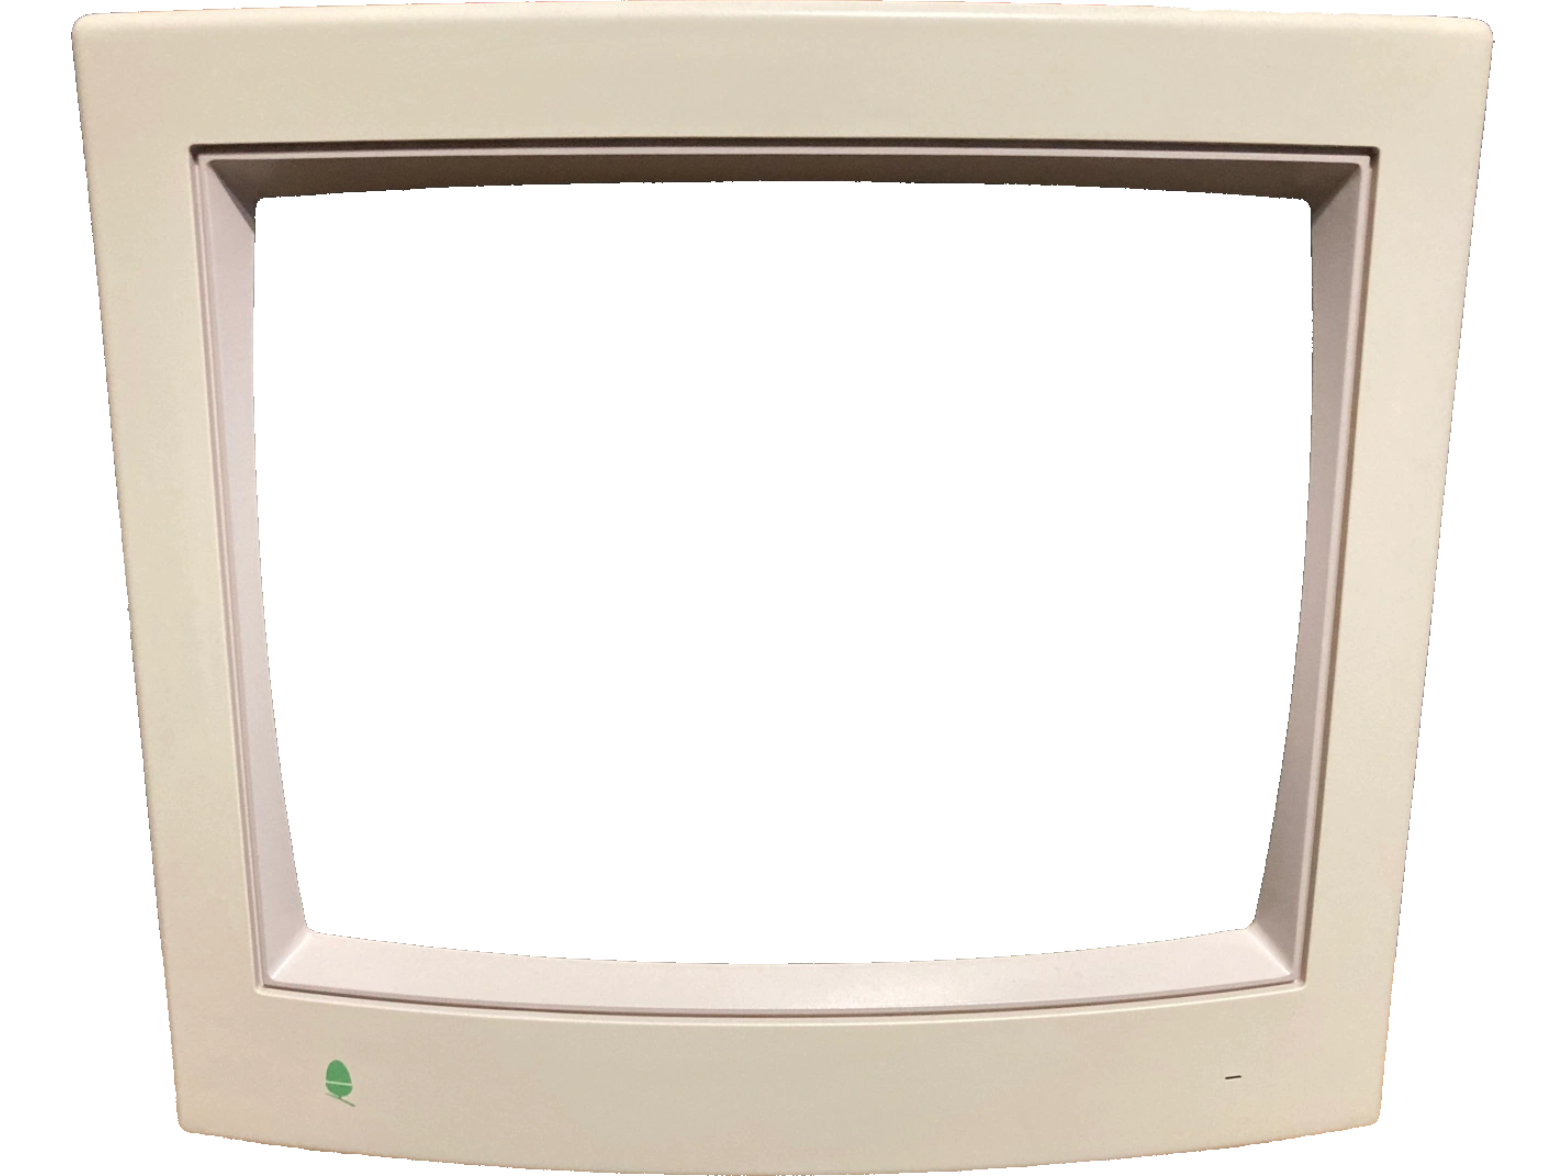
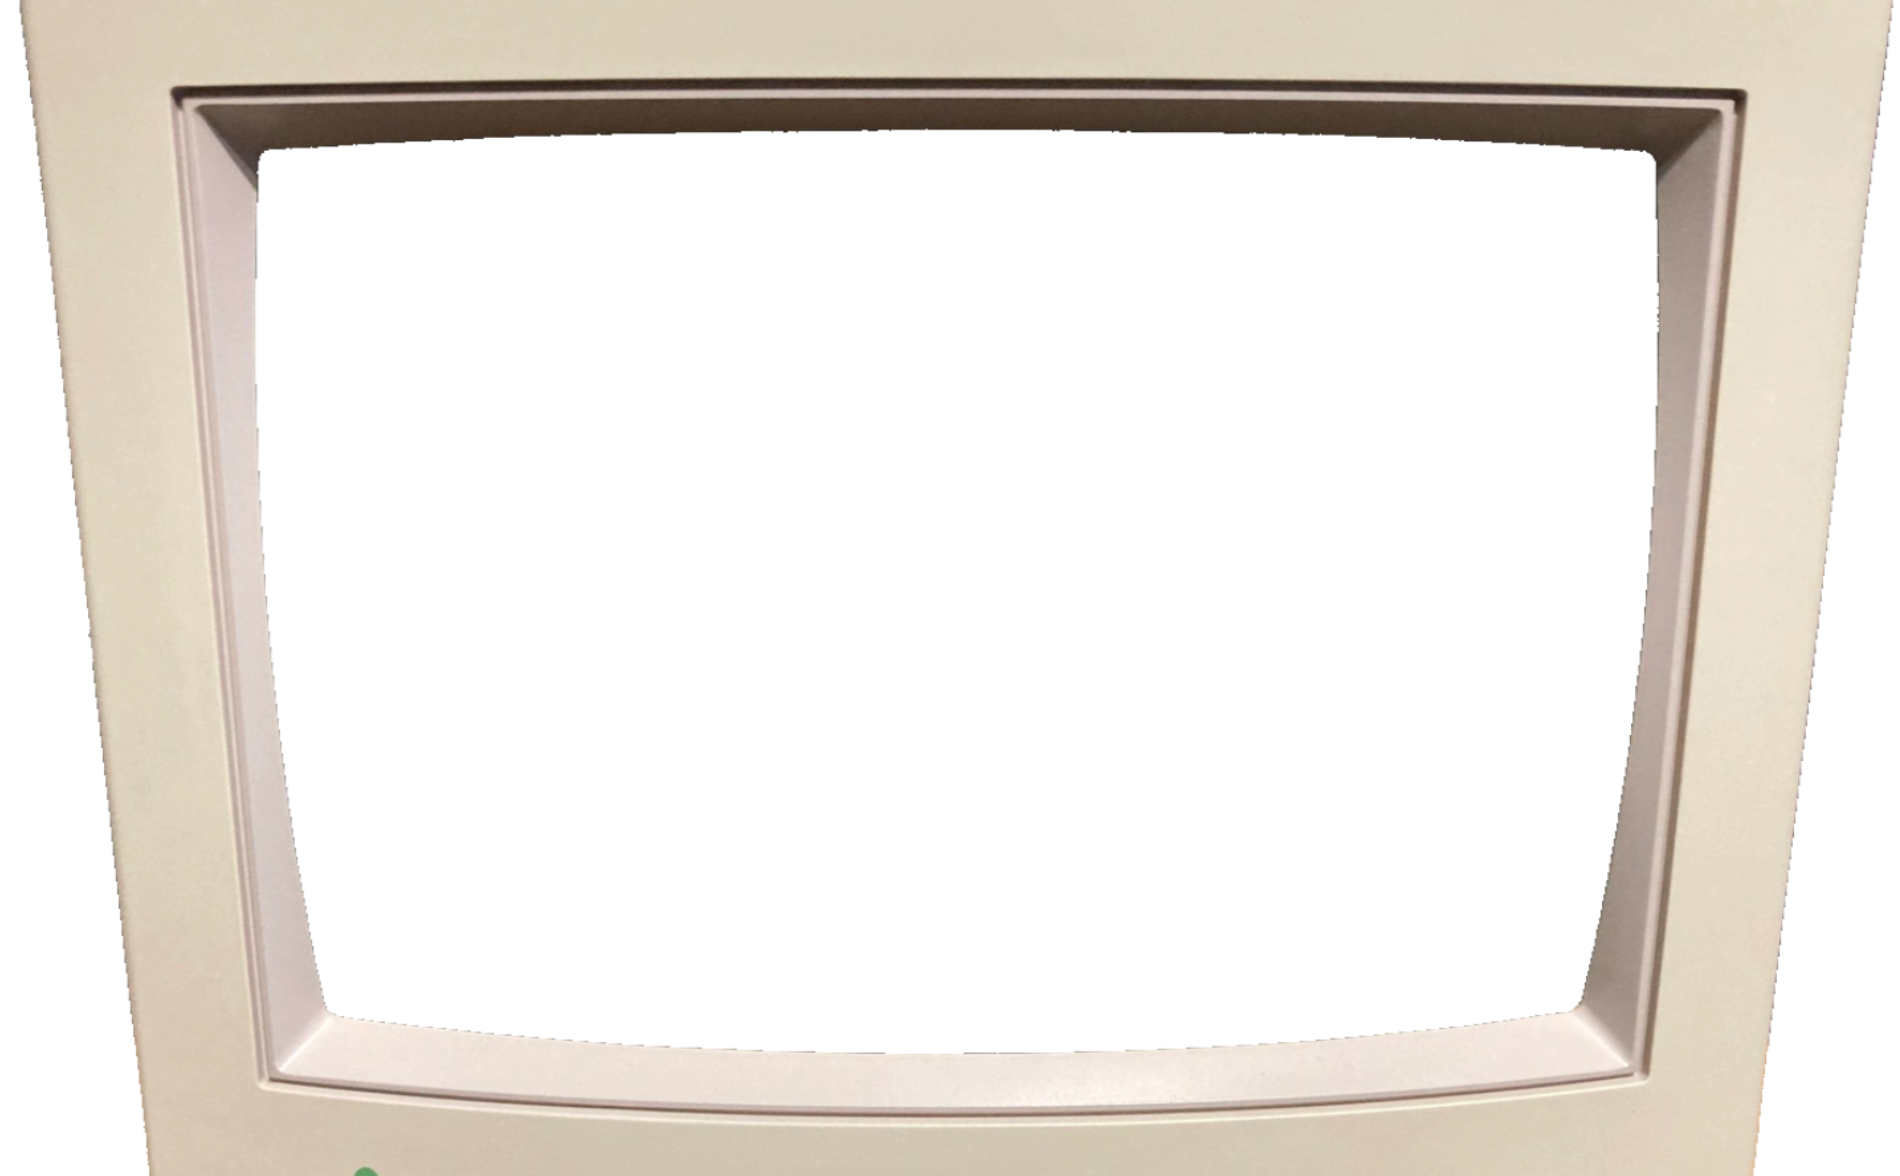
- finish evidence for images - update chat messages to make smaller screen resolutions display better - removed alien from main screen

diff --git a/lang-game-ts/src/components/UI/ViewEvidence.tsx b/lang-game-ts/src/components/UI/ViewEvidence.tsx
@@ -1,0 +1,115 @@
+import { useGameStore } from "../../store/useGameStore"
+import CancelButton from "../../assets/images/ui/icons/cancel-icon.png"
+import { useEffect, useState } from "react"
+import type { Evidence } from "../../types/index"
+
+const ViewEvidence = () => {
+    const evidenceState = useGameStore((s) => s.evidenceState)
+    const evidenceList = useGameStore((s) => s.evidenceList)
+    const updateEvidence = useGameStore((s) => s.updateEvidence)
+    const deselectEvidence = useGameStore((s) => s.deselectEvidence)
+    const selectedEvidence = evidenceList.find((x) => x.id === evidenceState?.evidenceId)
+
+    const [evidence, setEvidence] = useState<Evidence>()
+
+    useEffect(() => {
+        if (selectedEvidence?.id !== 0) {
+            setEvidence(selectedEvidence)
+        }
+    }, [selectedEvidence])
+
+    const handleBlur = () => {
+        if (evidence) {
+            updateEvidence(evidence.id, evidence.name ?? null, evidence.notes ?? null)
+
+        }
+    }
+
+    return (
+        <div
+            style={{ width: "100%", height: "100%", display: "flex", flexDirection: "column", justifyContent: "space-between" }}
+
+        >
+            <div style={{ height: "5%", display: "flex", alignItems: "center", justifyContent: "space-between" }}>
+                <input
+                    value={evidence && evidence.name}
+                    onChange={(e) =>
+                        setEvidence((prev) =>
+                            prev
+                                ? {
+                                    ...prev,
+                                    name: e.target.value,
+                                }
+                                : prev
+                        )
+                    }
+                    onBlur={handleBlur}
+                    style={{
+                        backgroundColor: "transparent",
+                        border: "1px solid #00FF00",
+                        minWidth: "50%",
+                        height: "100%",
+                        color: "#00FF00",
+                        caretColor: "#00FF00",
+                        padding: 5
+                    }}
+                />
+                <img src={CancelButton} style={{ width: 20, height: 20, cursor: "pointer" }} onClick={deselectEvidence} />
+            </div>
+            {selectedEvidence?.image ? (
+                <div
+                    style={{
+                        height: "70%",
+                        display: "flex",
+                        justifyContent: "center",
+                        alignItems: "flex-start",
+                        overflowY: "auto",
+                    }}
+                    className="missionPanelImage"
+                >
+                    <img
+                        src={selectedEvidence.image}
+                        style={{
+                            width: "100%",
+                            objectFit: "cover",
+                        }}
+                    />
+                </div>
+
+            ) : (
+                <div>text</div>
+            )}
+            <div style={{ height: "20%", display: "flex", flexDirection: "column", justifyContent: "space-between" }}>
+                Notes
+                <textarea
+                    value={evidence && evidence.notes}
+                    onChange={(e) =>
+                        setEvidence((prev) =>
+                            prev
+                                ? {
+                                    ...prev,
+                                    notes: e.target.value,
+                                }
+                                : prev
+                        )
+                    }
+                    onBlur={handleBlur}
+                    style={{
+                        backgroundColor: "transparent",
+                        border: "1px solid #00FF00",
+                        width: "100%",
+                        height: "80%",
+                        color: "#00FF00",
+                        caretColor: "#00FF00",
+                        padding: 5,
+                        resize: "none"
+                    }}
+                />
+            </div>
+        </div>
+    );
+
+
+}
+
+export default ViewEvidence

diff --git a/lang-game-ts/src/components/UI/GameScreen.tsx b/lang-game-ts/src/components/UI/GameScreen.tsx
@@ -3,9 +3,9 @@ import EvidenceContainer from "./EvidenceContainer";
 
 export const GameScreen = () => {
     return (
-        <div style={{ display: "flex", border: "1px solid #00FF00", width: "70%", height: "100%" }}>
+        <div style={{ display: "flex", border: "1px solid #00FF00", width: "60%", height: "100%" }}>
             <div style={{
-                width: "60%",
+                width: "100%",
                 height: "100%",
                 display: "flex",
                 justifyContent: "center",
@@ -13,15 +13,15 @@ export const GameScreen = () => {
             }}>
                 <EvidenceContainer />
             </div>
-            <div style={{
-                width: "40%",
-                background: `url(${alienImage})`,
-                backgroundSize: "cover",
-                backgroundPosition: "center"
-            }}
-                className="missionPanelImage"
-            >
-            </div>
+            {/*<div style={{*/}
+            {/*    width: "40%",*/}
+            {/*    background: `url(${alienImage})`,*/}
+            {/*    backgroundSize: "cover",*/}
+            {/*    backgroundPosition: "center"*/}
+            {/*}}*/}
+            {/*    className="missionPanelImage"*/}
+            {/*>*/}
+            {/*</div>*/}
         </div>
     );
 };

diff --git a/lang-game-ts/src/components/UI/EvidenceCard.tsx b/lang-game-ts/src/components/UI/EvidenceCard.tsx
@@ -33,7 +33,7 @@ const EvidenceCard = ({ id, name, isViewed }: EvidenceCardProps) => {
     return (
         <div style={{
             border: "1px solid #00FF00",
-            width: "45%",
+            width: "32%",
             height: "49%",
             fontSize: 15
 
@@ -58,7 +58,7 @@ const EvidenceCard = ({ id, name, isViewed }: EvidenceCardProps) => {
                         width: "100%",
                         display: "flex",
                         flexDirection: "column",
-                        backgroundColor: "green",
+                        backgroundColor: "rgba(0, 255, 0, 0.2)",
                         paddingTop: "10%",
                         boxSizing: "border-box",
                     }}
@@ -141,7 +141,8 @@ const EvidenceCard = ({ id, name, isViewed }: EvidenceCardProps) => {
                                 height: "80%",
                                 color: "#00FF00",
                                 caretColor: "#00FF00",
-                                padding: 5
+                                padding: 5,
+                                resize: "none"
                             }}
                         />
                     </div>

diff --git a/lang-game-ts/src/components/UI/EvidenceContainer.tsx b/lang-game-ts/src/components/UI/EvidenceContainer.tsx
@@ -1,25 +1,26 @@
 import { useGameStore } from "../../store/useGameStore";
 import EvidenceCard from "./EvidenceCard";
+import ViewEvidence from "./ViewEvidence";
 
 const EvidenceContainer = () => {
     const evidenceList = useGameStore((s) => s.evidenceList)
     const evidenceState = useGameStore((s) => s.evidenceState)
-
-    console.log(evidenceState)
 
     return (
         <div style={{
             display: "flex",
             flexWrap: "wrap",
             gap: "5px",
-            width: "98%",
+            width: "100%",
             height: "95%",
             overflow: "auto",
-            paddingLeft: "1.5%"
+            paddingLeft: "1.5%",
+            paddingRight: "1.5%",
+            justifyContent: "flex-start"
         }}>
 
             {evidenceState?.evidenceId !== 0 ?
-                null :
+                <ViewEvidence /> :
                 evidenceList && evidenceList.filter((e) => e.isFound).length > 0 ?
                     evidenceList.filter((e) => e.isFound).map((ev) => {
                         return (

diff --git a/lang-game-ts/src/components/UI/InputBox.tsx b/lang-game-ts/src/components/UI/InputBox.tsx
@@ -10,7 +10,7 @@ interface InputBoxProps {
 const InputBox = ({ wordStateComp, setWordStateComp, handleBlur, shouldFocus }: InputBoxProps) => {
     const spanRef = useRef(null);
     const inputRef = useRef(null);
-    const [inputWidth, setInputWidth] = useState(20); // minimum width in px
+    const [inputWidth, setInputWidth] = useState(20);
 
 
     useEffect(() => {
@@ -22,7 +22,7 @@ const InputBox = ({ wordStateComp, setWordStateComp, handleBlur, shouldFocus }: 
     useEffect(() => {
         if (spanRef.current) {
             const spanWidth = spanRef.current.offsetWidth;
-            setInputWidth(Math.max(20, spanWidth + 5)); // +5 for some padding
+            setInputWidth(Math.max(20, spanWidth + 5)); 
         }
     }, [wordStateComp.translation]);
 
@@ -53,7 +53,6 @@ const InputBox = ({ wordStateComp, setWordStateComp, handleBlur, shouldFocus }: 
                 }}
 
             />
-            {/* Hidden span to calculate width */}
             <span
                 ref={spanRef}
                 style={{

diff --git a/lang-game-ts/src/components/UI/ChatMessage.tsx b/lang-game-ts/src/components/UI/ChatMessage.tsx
@@ -64,8 +64,8 @@ const ChatMessage = ({ type, npcId, npcMood, text, id }: Message) => {
         )
     } else {
         return (
-            <div style={{ display: "flex", minHeight: "10%", justifyContent: "center", alignItems: "center" }}>
-                <div style={{ border: "1px solid #00FF00", width: "80%", height: "100%", justifyContent: "center", alignItems: "flex-start", display: "flex", flexDirection: "column", paddingLeft: 5, paddingRight: 5 }}>
+            <div style={{ display: "flex", justifyContent: "center", alignItems: "center" }}>
+                <div style={{ border: "1px solid #00FF00", width: "80%", height: "100%", justifyContent: "center", alignItems: "flex-start", display: "flex", flexDirection: "column", padding: 5 }}>
                     <span>{text && text.split(":")[0]}:</span>
                     <span>{text && text.split(":")[1]}</span>
                 </div>

diff --git a/lang-game-ts/src/App.tsx b/lang-game-ts/src/App.tsx
@@ -43,7 +43,7 @@ function App() {
                     alt="Monitor UI"
                     style={{
                         width: "100%",
-                        height: "120%",
+                        height: "115%",
                         pointerEvents: "none",
                         zIndex: 2
                     }}
@@ -53,10 +53,10 @@ function App() {
                 <div
                     style={{
                         position: 'absolute',
-                        top: '8%',
-                        left: '16%',
-                        width: '68%',
-                        height: '90%',
+                        top: '5%',
+                        left: '13%',
+                        width: '74.5%',
+                        height: '96%',
                         zIndex: 1,
                         paddingLeft: "2%",
                         paddingRight: "2%",

diff --git a/lang-game-ts/src/store/useGameStore.ts b/lang-game-ts/src/store/useGameStore.ts
@@ -38,6 +38,7 @@ interface GameState {
     updateWordDefinition: (definition: string, wordId: number) => void;
     selectEvidence: (evidenceId: number) => void;
     updateEvidence: (evidenceId: number, name: null | string, notes: null | string) => void;
+    deselectEvidence: () => void;
 }
 
 const updateWordListWithFoundWords = (wordList: Word[], text: number[]): Word[] => {
@@ -337,6 +338,15 @@ export const useGameStore = create<GameState>((set, get) => ({
 
         set(() => ({
             evidenceList: evidenceList
+        }));
+    },
+
+    deselectEvidence: () => {
+        set(() => ({
+            evidenceState: {
+                evidenceId: 0,
+                puzzleId: 0
+            },
         }));
     }
 

diff --git a/lang-game-ts/src/data/evidence/evidenceOptions.ts b/lang-game-ts/src/data/evidence/evidenceOptions.ts
@@ -1,16 +1,19 @@
 import type { Evidence } from "../../types/index"
+import Evidence1Image from "../../assets/images/alien/alien.png"
+
 
 export const evidenceOptions: Evidence[] = [
     {
         id: 1,
         meaning: "Home",
         text: [5],
-        puzzle: 1
+        image: Evidence1Image
     },
     {
         id: 2,
         meaning: "Go",
         text: [1],
+        puzzle: 1
     },
     {
         id: 3,

diff --git a/lang-game-ts/src/components/UI/MissionPanel.tsx b/lang-game-ts/src/components/UI/MissionPanel.tsx
@@ -7,7 +7,7 @@ export const MissionPanel = () => {
     const chatHistory = useGameStore((s) => s.chatHistory)
 
     return (
-        <div style={{ width: "30%", border: "1px solid #00FF00", padding: 10 }} >
+        <div style={{ width: "40%", border: "1px solid #00FF00", padding: 10 }} >
             <div style={{
                 display: "flex",
                 flexDirection: "column",

diff --git a/lang-game-ts/src/components/UI/WordContainer.tsx b/lang-game-ts/src/components/UI/WordContainer.tsx
@@ -2,7 +2,6 @@ import WordSymbol from "./WordSymbol";
 import WordInput from "./WordInput"
 import { useGameStore } from "../../store/useGameStore";
 
-
 interface WordContainerProps {
     text: number[] | string;
     editScreen: string;

diff --git a/lang-game-ts/src/data/dialogues/dialogueText.ts b/lang-game-ts/src/data/dialogues/dialogueText.ts
@@ -12,7 +12,7 @@ export const dialogueText: DialogueNode[] = [
         meaning: "Yes?",
         text: [9, 6], // Question:Yes
         choices: [2, 3],
-        evidence: [1, 2, 3]
+        evidence: [1]
     },
     {
         id: 3,
